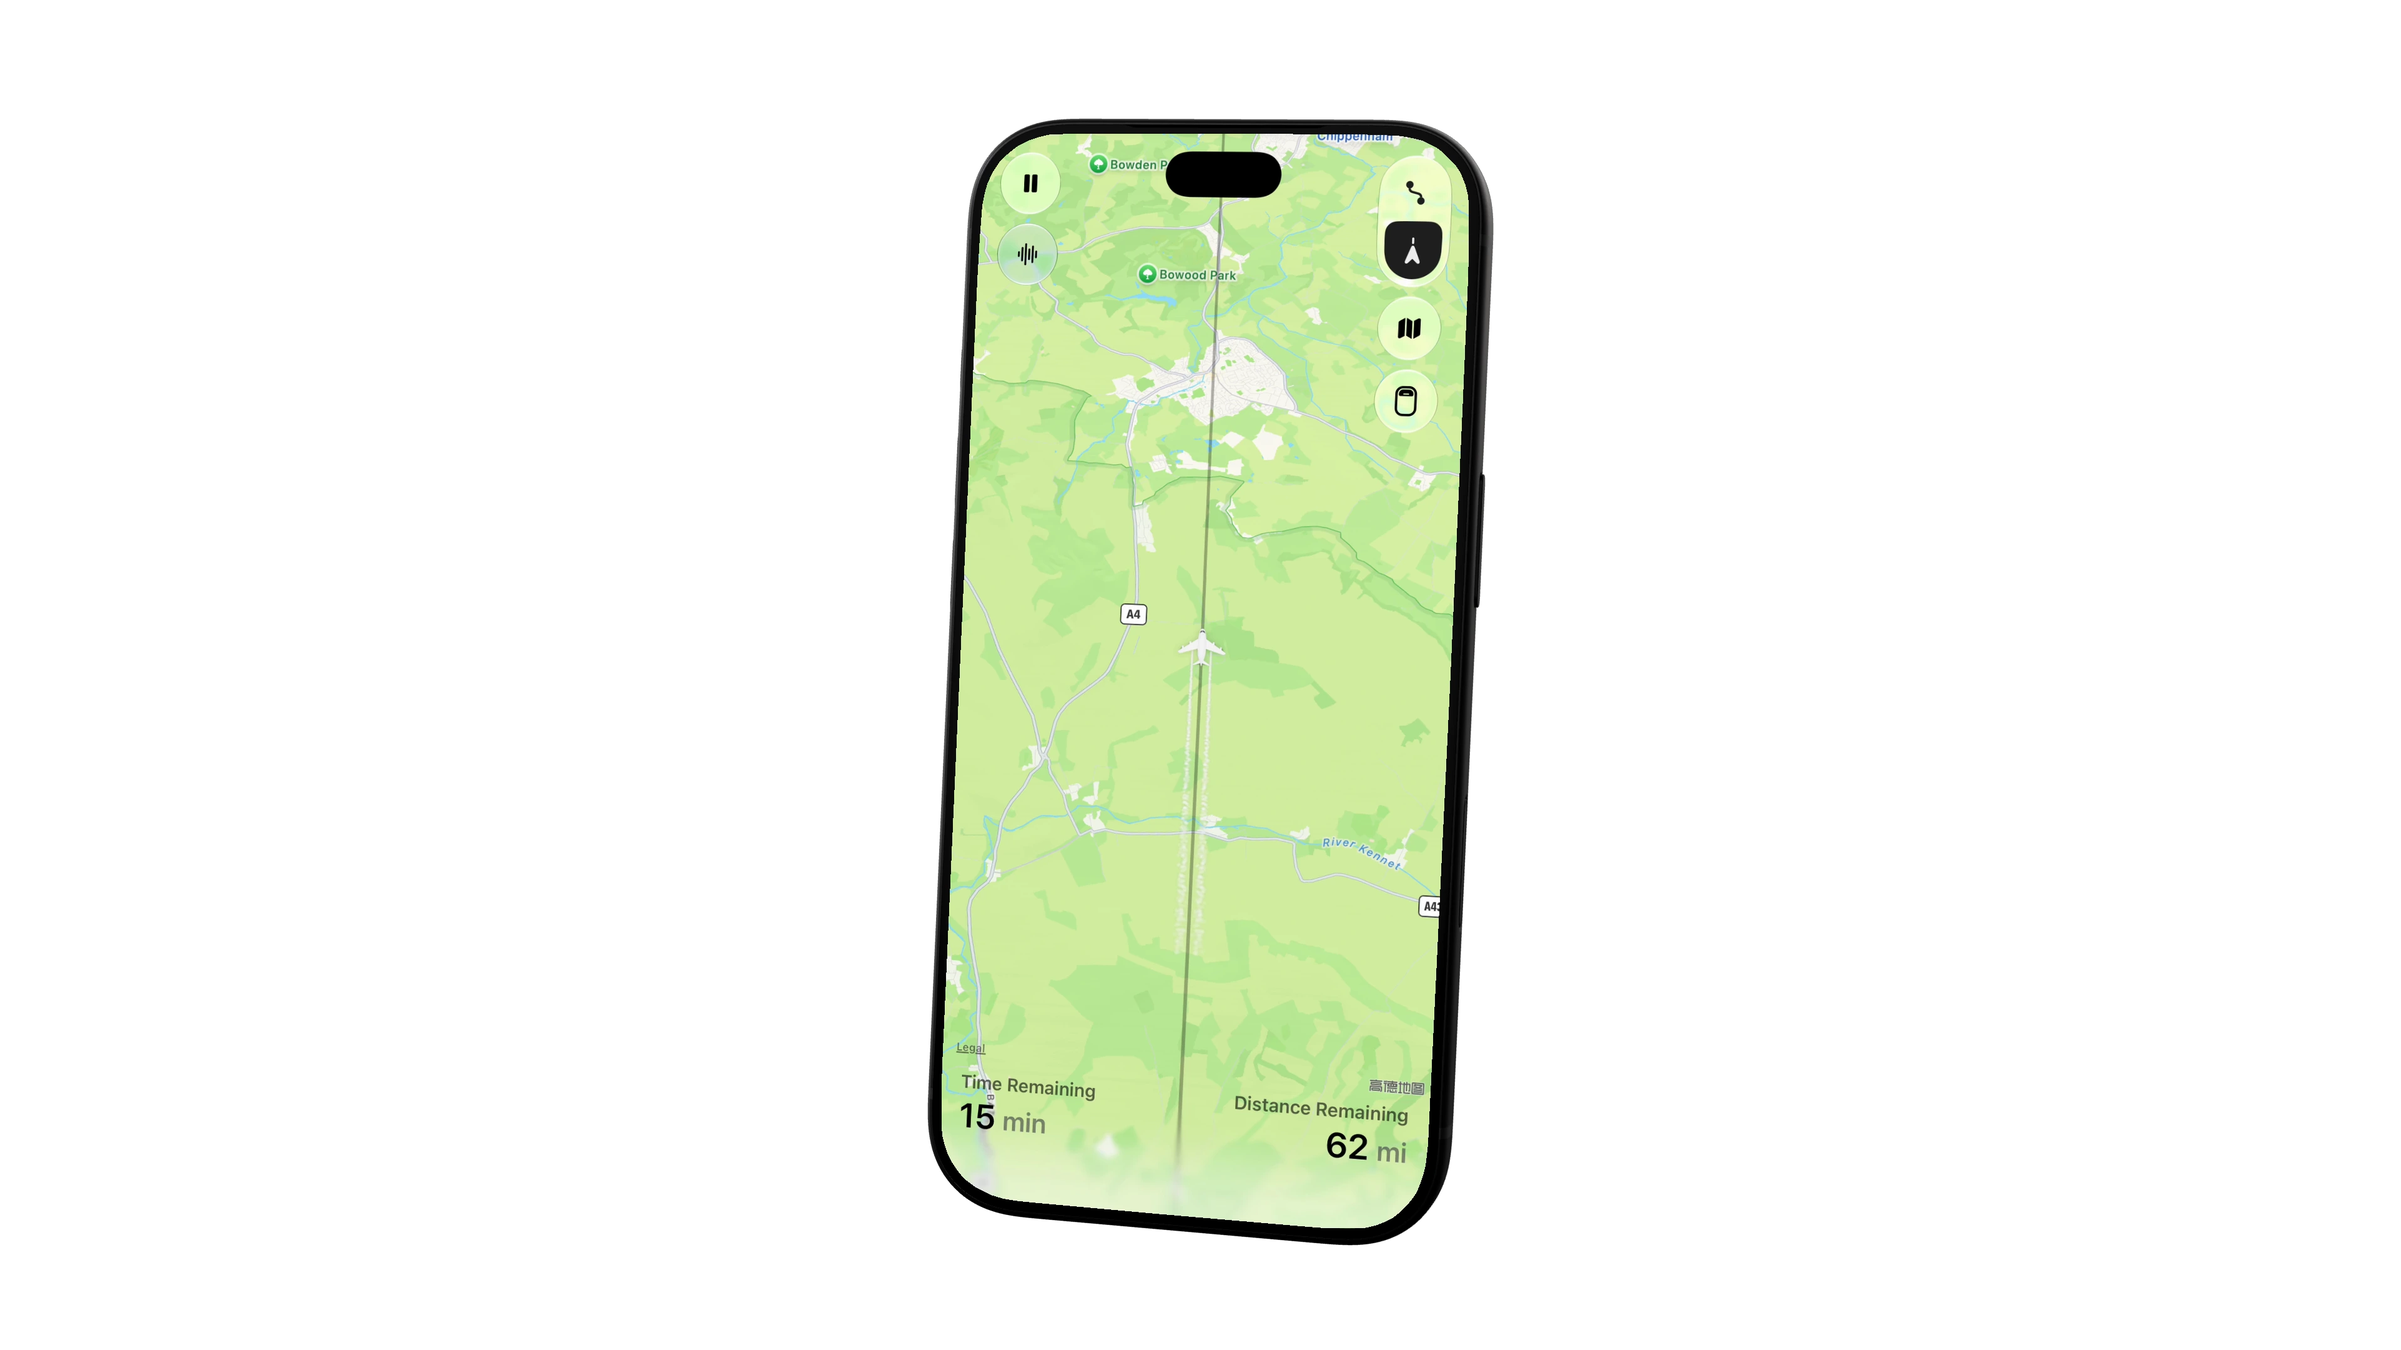
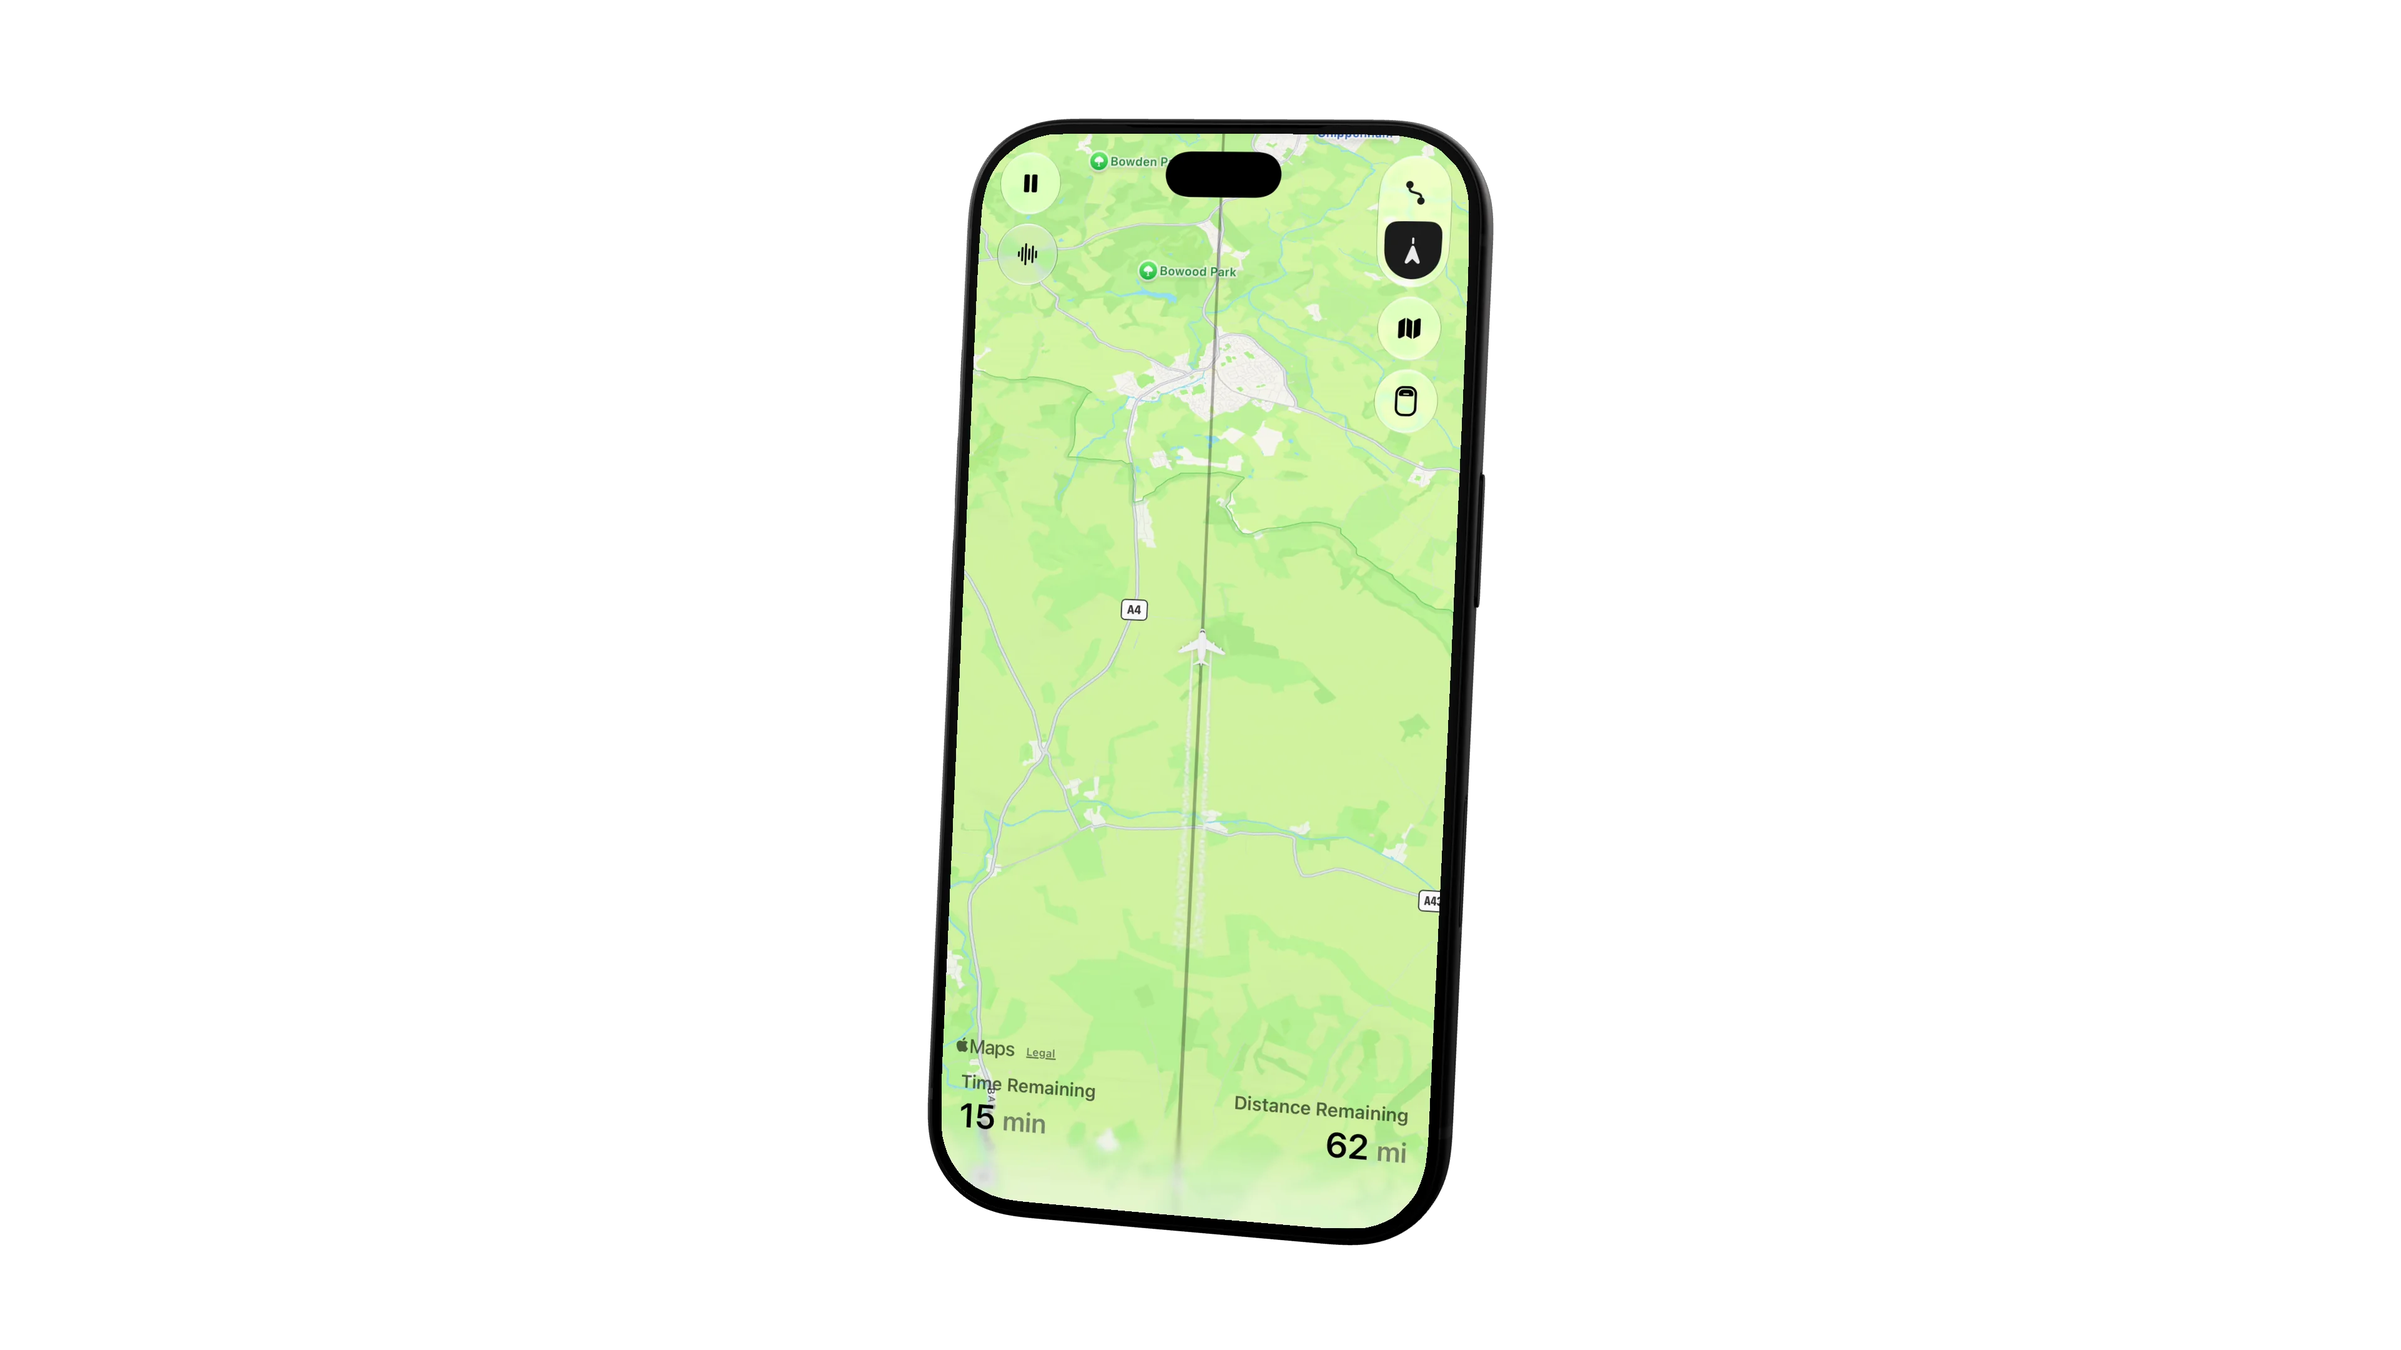
feat: 更新滚动计数和测试版转场

diff --git a/sky.js b/sky.js
@@ -1,4 +1,4 @@
-import { setupGiftDescent } from "./gift.js?v=english-cards";
+import { setupGiftDescent } from "./gift.js?v=rolling-count";
 import { setupWindowFlight } from "./window-flight.js?v=sky-meteor";
 import { setupPortholeSky } from "./porthole/sky.js?v=compact-noise";
 import { setupWindowShade } from "./porthole/shade.js?v=static-porthole";
@@ -229,6 +229,7 @@ function ease(from, to, value) {
 
 const siteHeader = document.querySelector(".site-header");
 const showcase = document.getElementById("showcase");
+const deviceButtons = [...showcase.querySelectorAll("button[data-device]")];
 const deepFocus = document.getElementById("deep-focus");
 
 const setShadeActive = setupWindowShade(deepFocus.querySelector(".porthole"));
@@ -240,6 +241,7 @@ const gift = document.getElementById("gift");
 const campaignSlides = [...document.querySelectorAll(".gift-letter")];
 const runway = document.getElementById("runway");
 const sections = [sky, showcase, deepFocus, download, gift, ...campaignSlides, runway];
+const showcasePage = sections.indexOf(showcase);
 const giftPage = sections.indexOf(gift);
 const firstSlidePage = giftPage + 1;
 const runwayPage = sections.indexOf(runway);
@@ -577,11 +579,23 @@ for (const link of document.querySelectorAll('.site-header a[href^="#"], .hero-e
   });
 }
 
-function stepPage(down, focusPage = false) {
-  const nearingNextScreen = (pageTarget >= 1 && pageTarget <= giftPage) && Math.abs(handoffProgress - pageTarget) <= .10;
+function stepNavigation(down, focusPage = false) {
+  const direction = down ? 1 : -1;
+  const nearTarget = Math.abs(handoffProgress - pageTarget) <= .10;
+  if (pageTarget === showcasePage && nearTarget) {
+    const selected = deviceButtons.findIndex(button => button.getAttribute("aria-pressed") === "true");
+    const nextDevice = deviceButtons[selected + direction];
+    if (selected >= 0 && nextDevice) {
+      cancelLinkFade();
+      nextDevice.click();
+      return true;
+    }
+  }
+
+  const nearingNextScreen = pageTarget >= 1 && pageTarget <= giftPage && nearTarget;
   const onCampaign = pageTarget >= firstSlidePage && pageTarget <= lastSlidePage;
   if (handoffFrame && !nearingNextScreen && !onCampaign && down === (pageTarget > pageOrigin)) return true;
-  const target = Math.max(0, Math.min(sections.length - 1, pageTarget + (down ? 1 : -1)));
+  const target = Math.max(0, Math.min(sections.length - 1, pageTarget + direction));
   return playPage(target, focusPage);
 }
 
@@ -603,7 +617,7 @@ window.addEventListener("wheel", event => {
   const scale = event.deltaMode === 1 ? 24 : event.deltaMode === 2 ? window.innerHeight : 1;
   wheelDistance += Math.abs(event.deltaY) * scale;
   if (wheelDistance < wheelThreshold) return;
-  stepPage(down);
+  stepNavigation(down);
   capturedWheelDirection = down;
   wheelDistance = 0;
 }, { passive: false });
@@ -624,7 +638,7 @@ window.addEventListener("touchmove", event => {
   const dy = touchOrigin.clientY - clientY;
   const dx = Math.abs(touchOrigin.clientX - clientX);
   if (Math.abs(dy) < touchThreshold || Math.abs(dy) < dx * 1.25) return;
-  stepPage(dy > 0);
+  stepNavigation(dy > 0);
   touchHandoff = true;
 }, { passive: false });
 for (const type of ["touchend", "touchcancel"]) {
@@ -639,7 +653,7 @@ window.addEventListener("keydown", event => {
   const down = event.key === "PageDown" || event.key === "ArrowDown" || (space && !event.shiftKey);
   const up = event.key === "PageUp" || event.key === "ArrowUp" || (space && event.shiftKey);
   if (!down && !up) return;
-  if (event.repeat || stepPage(down, true)) {
+  if (event.repeat || stepNavigation(down, true)) {
     event.preventDefault();
   }
 });

diff --git a/download-count.js b/download-count.js
@@ -1,0 +1,87 @@
+const count = document.querySelector(".download-count");
+const sequence = count.closest("main");
+const value = count.querySelector(".download-count-value");
+const readable = document.createElement("span");
+readable.className = "motion-readable";
+value.before(readable);
+value.setAttribute("aria-hidden", "true");
+
+const format = new Intl.NumberFormat("en-US");
+const reducedMotion = matchMedia("(prefers-reduced-motion: reduce)");
+const easing = getComputedStyle(count).getPropertyValue("--button-press").trim();
+let total = 3_500_000 + Math.floor(Math.random() * 501) - 250;
+let visible = false;
+let timer;
+
+function nextInterval() {
+  return 900 + Math.random() * 1700;
+}
+
+let nextUpdate = performance.now() + nextInterval();
+
+function render(animate) {
+  const digits = format.format(total);
+  const previous = readable.textContent;
+  readable.textContent = digits;
+
+  if (value.childElementCount !== digits.length) {
+    value.replaceChildren(...Array.from(digits, character => {
+      const column = document.createElement("span");
+      if (character !== ",") column.className = "download-count-digit";
+      column.textContent = character;
+      return column;
+    }));
+    return;
+  }
+
+  for (const [index, character] of [...digits].entries()) {
+    const column = value.children[index];
+    if (!animate || reducedMotion.matches) {
+      if (column.childElementCount || previous[index] !== character) column.textContent = character;
+      continue;
+    }
+    if (previous[index] === character) continue;
+
+    const oldDigit = document.createElement("span");
+    oldDigit.textContent = previous[index];
+    const newDigit = document.createElement("span");
+    newDigit.textContent = character;
+    column.replaceChildren(oldDigit, newDigit);
+    const timing = { duration: 450, easing };
+    oldDigit.animate([
+      { transform: "translateY(0)", opacity: 1, filter: "blur(0px)" },
+      { transform: "translateY(-100%)", opacity: 0, filter: "blur(.16em)" },
+    ], timing).onfinish = () => oldDigit.remove();
+    newDigit.animate([
+      { transform: "translateY(100%)", opacity: 0, filter: "blur(.16em)" },
+      { transform: "translateY(0)", opacity: 1, filter: "blur(0px)" },
+    ], timing);
+  }
+}
+
+function update() {
+  clearTimeout(timer);
+  if (!visible || document.hidden) return;
+  if (sequence.matches("[data-window-flight], [data-gift-descent]")) {
+    if (value.getAnimations({ subtree: true }).length) render(false);
+    return;
+  }
+  const now = performance.now();
+  if (now >= nextUpdate) {
+    const missed = Math.floor((now - nextUpdate) / 2200);
+    total += missed + 1 + Math.floor(Math.random() ** 2 * 4);
+    render(missed === 0);
+    nextUpdate = now + nextInterval();
+  }
+  timer = setTimeout(update, nextUpdate - now);
+}
+
+render(false);
+new IntersectionObserver(([entry]) => {
+  visible = entry.isIntersecting;
+  update();
+}).observe(count);
+new MutationObserver(update).observe(sequence, {
+  attributeFilter: ["data-window-flight", "data-gift-descent"],
+});
+document.addEventListener("visibilitychange", update);

diff --git a/index.html b/index.html
@@ -369,17 +369,18 @@
     }
 
   </style>
-  <link rel="stylesheet" href="/focusflight-preview/sky.css?v=horizon-feather">
+  <link rel="stylesheet" href="/focusflight-preview/sky.css?v=handoff-overflow">
   <link rel="stylesheet" href="/focusflight-preview/journey.css?v=dark-mode">
   <link rel="stylesheet" href="/focusflight-preview/showcase.css?v=aqua-tone-release">
   <link rel="stylesheet" href="/focusflight-preview/button-motion.css?v=white-header-aqua">
   <script src="/focusflight-preview/button-motion.js?v=aqua-nav" type="module"></script>
   <link rel="stylesheet" href="/focusflight-preview/deep-focus.css?v=short-landscape">
-  <link rel="stylesheet" href="/focusflight-preview/download.css?v=download-count">
-  <link rel="stylesheet" href="/focusflight-preview/gift.css?v=english-cards">
+  <link rel="stylesheet" href="/focusflight-preview/download.css?v=badge-spacing">
+  <link rel="stylesheet" href="/focusflight-preview/gift.css?v=badge-spacing">
   <link rel="stylesheet" href="/focusflight-preview/mobile.css" media="(max-width: 520px)">
-  <script src="/focusflight-preview/sky.js?v=english-cards" type="module"></script>
-  <script src="/focusflight-preview/showcase.js?v=front-index" type="module"></script>
+  <script src="/focusflight-preview/download-count.js?v=badge-spacing" type="module"></script>
+  <script src="/focusflight-preview/sky.js?v=device-scroll" type="module"></script>
+  <script src="/focusflight-preview/showcase.js?v=apple-maps" type="module"></script>
 </head>
 <body>
   <div class="section-fade" aria-hidden="true"></div>
@@ -658,7 +659,7 @@
               <img src="/focusflight-preview/brand/download-on-the-mac-app-store.svg" alt="Download FocusFlight on the Mac App Store" width="156" height="40">
             </a>
           </div>
-          <p class="download-count">2.5M+ Downloads</p>
+          <p class="download-count"><span class="download-count-value">3,500,000</span> Downloads</p>
         </div>
       </div>
     </section>

diff --git a/gift.css b/gift.css
@@ -51,7 +51,7 @@
   [data-gift-descent] :is(.download-copy h2, .star-rise, .star-east, .sketch-cloud, .sketch-mac) { --lag: var(--gift-lag-0); }
   [data-gift-descent] :is(.download-copy p, .sketch-iphone, .star-west) { --lag: var(--gift-lag-1); }
   [data-gift-descent] :is(.download-awards img, .sketch-ipad, .star-south) { --lag: var(--gift-lag-2); }
-  [data-gift-descent] :is(.download-copy .hero-actions a, .sketch-plane) { --lag: var(--gift-lag-3); }
+  [data-gift-descent] :is(.download-copy .hero-actions a, .download-copy .download-count, .sketch-plane) { --lag: var(--gift-lag-3); }
   [data-gift-descent] :is(.download-label, .download-copy h2, .download-copy p) { translate: 0 var(--lag, 0px); }
   /* Blur each line once. Stagger only opacity and vertical travel per glyph. */
   [data-gift-descent] :is(.download-label, .download-copy h2, .download-copy p,
@@ -59,7 +59,7 @@
     --exit: clamp(0, (var(--gift-exit, 0) - var(--cue, 0) * .35) / .76, 1);
     --soft: calc(var(--exit) * var(--exit) * (3 - 2 * var(--exit)));
   }
-  [data-gift-descent] :is(.download-label, .download-copy h2, .download-copy p) > [aria-hidden] {
+  [data-gift-descent] :is(.download-label, .download-copy h2, .download-copy p:not(.download-count)) > [aria-hidden] {
     display: inline-block;
     filter: blur(calc(var(--soft) * clamp(6px, .14em, 12px)));
   }
@@ -68,7 +68,7 @@
     opacity: calc(1 - var(--fade) * var(--fade) * (3 - 2 * var(--fade)));
     translate: 0 calc(-.14em * var(--soft));
   }
-  [data-gift-descent] :is(.download-sketches img, .download-awards img, .download-copy .hero-actions a) {
+  [data-gift-descent] :is(.download-sketches img, .download-awards img, .download-copy .hero-actions a, .download-copy .download-count) {
     filter: blur(calc(var(--defocus, 5px) * var(--soft)));
     opacity: calc(var(--ink, 1) * (1 - var(--soft)));
     translate: var(--anchor, 0px) calc(var(--anchor, 0px) + var(--lag, 0px) - 9px * var(--soft));

diff --git a/download.css b/download.css
@@ -107,6 +107,17 @@
   font-size: clamp(13px, 1.15vw, 17px);
 }
 
+.download-count-value {
+  font-variant-numeric: tabular-nums;
+  white-space: nowrap;
+}
+.download-count-digit {
+  display: inline-grid;
+  vertical-align: top;
+  overflow: clip;
+}
+.download-count-digit > span { grid-area: 1 / 1; }
+
 /* Keep the sky and download content in their final viewport throughout the flight. */
 [data-window-flight] .deep-focus { translate: 0 var(--cabin-offset); }
 [data-window-flight] .download {
@@ -190,9 +201,9 @@
   .download-awards img + img { --cue: .415; }
   .sketch-ipad { --cue: .445; }
   .sketch-plane { --cue: .475; }
-  .download-copy .hero-actions a { --cue: .50; }
+  .download-copy :is(.hero-actions a, .download-count) { --cue: .50; }
   .download-copy .hero-actions a + a { --cue: .535; }
-  .download-copy .download-count { --cue: .55; }
+  .download-count { --defocus: 4px; }
   .star-south { --cue: .56; }
 
   .download-sketches img {

diff --git a/sky.css b/sky.css
@@ -40,7 +40,8 @@
   scale: calc(1 - var(--exit) * .04);
 }
 
-.flight-sequence:focus-visible { outline: none; }
+.flight-sequence:focus-visible, .showcase:focus { outline: none; }
+
 .sky:not([data-clouds-ready]) .clouds { visibility: hidden; }
 .cloud-still {
   display: none;
@@ -71,12 +72,5 @@
   }
 }
 
-/* Move the lightweight first shot with the page without compositing both screens. */
-.sky[data-clouds-static][data-handoff] { position: relative; opacity: 1; }
-.sky[data-clouds-static][data-handoff] + .showcase {
-  opacity: 1;
-  overflow: clip;
-  background: var(--flight-page);
-}
-.sky[data-clouds-static][data-handoff] + .showcase::before { position: absolute; }
+/* Static fallback keeps the same geometry if it activates during camera travel. */
 .sky[data-clouds-static] :is(.cloud-still, .stars, .aircraft, .motion-glyph) { filter: none; }

diff --git a/device-orbit.js b/device-orbit.js
@@ -57,9 +57,9 @@ export function setupDeviceOrbit(stage, buttons, reducedMotion) {
     entryObserver.disconnect();
     handoffObserver.disconnect();
     for (const { poster, blurred, base } of posters) {
-      poster.srcset = `${base}.webp 1920w, ${base}-4k.webp 3840w`;
-      poster.src = `${base}.webp`;
-      blurred.src = `${base}-blur.webp`;
+      poster.srcset = `${base}.webp?v=apple-maps 1920w, ${base}-4k.webp?v=apple-maps 3840w`;
+      poster.src = `${base}.webp?v=apple-maps`;
+      blurred.src = `${base}-blur.webp?v=apple-maps`;
     }
   }
   const entryObserver = new IntersectionObserver(([entry]) => {

diff --git a/showcase.js b/showcase.js
@@ -1,7 +1,7 @@
 import { prepareCopy } from "./motion-copy.js";
 import { setupDeviceLiquid } from "./device-liquid.js?v=dark-mode";
-import { setupDevicePlayback } from "./device-playback.js?v=front-index";
-import { setupDeviceOrbit } from "./device-orbit.js?v=transform-orbit";
+import { setupDevicePlayback } from "./device-playback.js?v=apple-maps";
+import { setupDeviceOrbit } from "./device-orbit.js?v=apple-maps";
 
 const section = document.querySelector(".showcase");
 const copy = section.querySelector(".showcase-copy");

diff --git a/device-playback.js b/device-playback.js
@@ -208,7 +208,7 @@ export function setupDevicePlayback(stage, buttons, reducedMotion, moveOrbit, mo
     const controller = device.loadController = new AbortController();
     const { signal } = controller;
     const cue = parkedCue;
-    const src = `${device.base}.${appleVideo ? "mov" : "webm?v=front-index"}`;
+    const src = `${device.base}.${appleVideo ? "mov" : "webm"}?v=apple-maps`;
     device.loading = (async () => {
       if (local) {
         if (ranges === undefined) {

diff --git a/gift.js b/gift.js
@@ -58,7 +58,7 @@ export function setupGiftDescent(download, gift, slides, runway, windowFlight, e
     reader.addEventListener(event, e => e.stopPropagation());
   }
 
-  for (const line of content.querySelectorAll(".download-label, .download-copy h2, .download-copy p")) {
+  for (const line of content.querySelectorAll(".download-label, .download-copy h2, .download-copy p:not(.download-count)")) {
     prepareCopy(line);
   }
 
